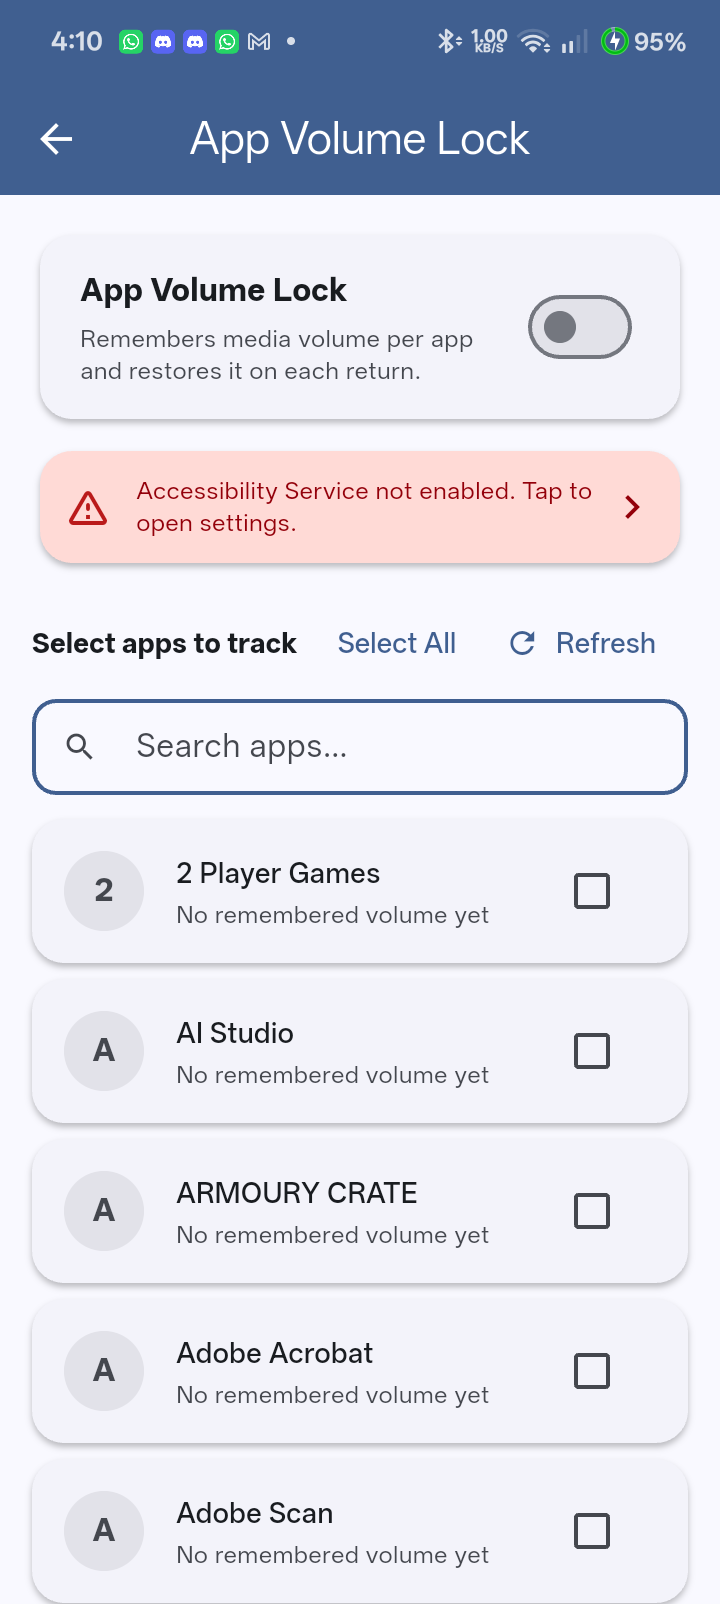
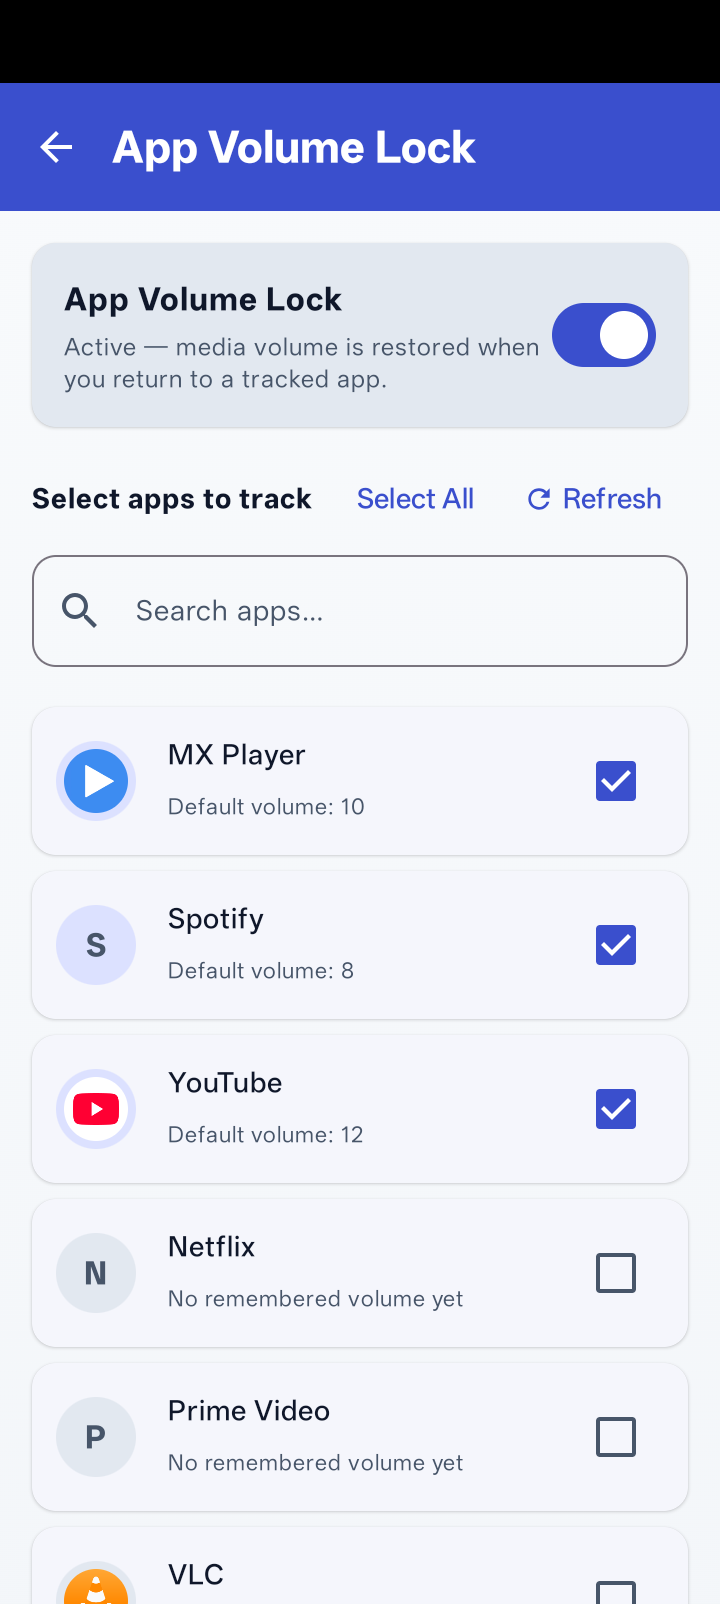
chore: bump version to v2.0.0

diff --git a/CHANGELOG.md b/CHANGELOG.md
@@ -1,5 +1,47 @@
 # Changelog
 
+## [2.0.0] - 2026-06-08
+
+### Added
+
+- 1c351ef  feat: Add background-aware App Volume Lock feature
+- 8e782b0  feat: Cache Installed Apps and Load in Background
+
+### Style
+
+- b1515a1  style: change the windowBackground to ic launcher background color
+- 5e42988  style: add dark theme and material you support
+
+### Refactor
+
+- 53ac655  refactor: migrate app to native Android
+
+### Documentation
+
+- 46c52ad  docs: Update documentation and comments to reflect native Jetpack Compose architecture
+
+### Performance
+
+- 6cfbdaf  perf: Progressive App Loading (One-by-One)
+
+### Maintenance
+
+- 95d13cb  chore: update pre-commit config
+- 2e863a5  chore: Add GitHub PR and Issue templates
+- 30f93bb  chore: remove log screen from screenshots
+- 5bc489b  chore: make builds faster
+- 2026709  chore: add fastlane screenshot
+- a512800  chore: add fastlane
+- a08eb73  chore: remove unwanted files
+- 9ba99a0  chore: add pre-commit config
+
+### Other
+
+- e582c49  change app name to volumelock
+- 689f0ca  fixup
+
+# Changelog
+
 ## [1.2.0] - 2026-06-07
 
 ### Fixed